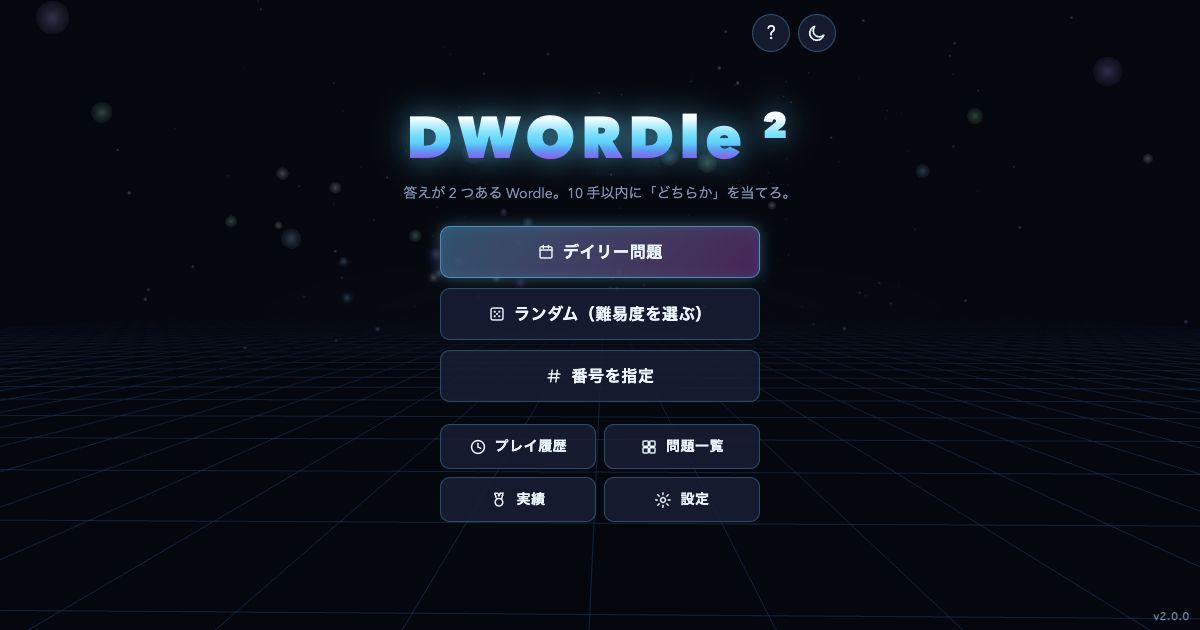
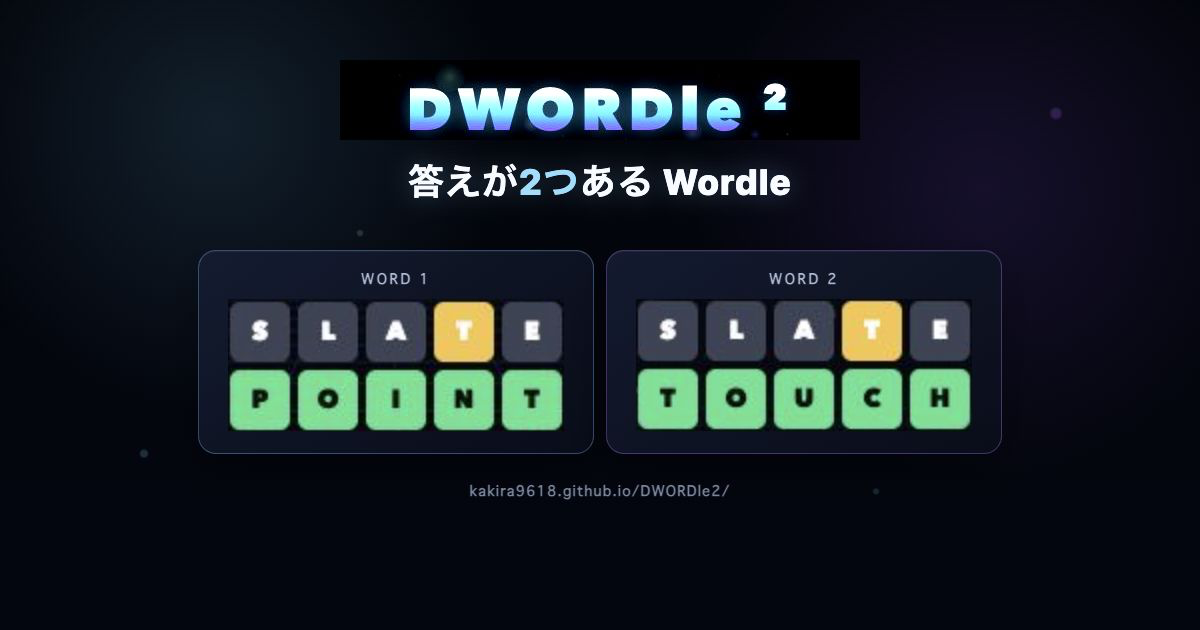
Refine DWORDle2 preview and mobile layout

diff --git a/DWORDle2/css/style.css b/DWORDle2/css/style.css
@@ -239,6 +239,34 @@ body.theme-cyber .btn:hover {
   text-align: center;
   overflow-y: auto;
 }
+/* 画面の低い端末では中央揃えの上側がスクロール範囲外へはみ出すため、
+   タイトルを上から配置して全メニューへ到達できるようにする。 */
+@media (max-height: 700px) {
+  #screen-title {
+    justify-content: flex-start;
+    gap: 10px;
+    padding: 64px 24px 24px;
+  }
+  #screen-title .logo {
+    font-size: clamp(38px, 10vw, 50px);
+  }
+  #screen-title .tagline {
+    margin-bottom: 6px;
+  }
+  #screen-title .title-menu {
+    gap: 8px;
+  }
+  #screen-title .title-menu .btn {
+    padding-block: 11px;
+  }
+  #screen-title .title-nav {
+    gap: 6px;
+    margin-top: 4px;
+  }
+  #screen-title .title-nav .btn {
+    padding-block: 9px;
+  }
+}
 .logo {
   font-size: clamp(40px, 11vw, 58px);
   font-weight: 900;

diff --git a/DWORDle2/js/ui/help.js b/DWORDle2/js/ui/help.js
@@ -470,31 +470,24 @@ export function showFirstTutorial(mode) {
     );
 
   showModal({
-    title: currentLanguage() === "en" ? "Two quick rules" : "最初に 2 つの大事なルール",
+    title: currentLanguage() === "en" ? "Basic Rules" : "基本ルール",
     body: [
-      el(
-        "p",
-        { class: "tutorial-intro" },
-        currentLanguage() === "en"
-          ? "DWORDle looks familiar, but these two differences change how you solve it."
-          : "Wordle と似ていますが、次の 2 点が推理の鍵です。"
-      ),
       el(
         "ol",
         { class: "tutorial-points" },
         point(
           "1",
-          currentLanguage() === "en" ? "Feedback can cross both words" : "判定は 2 つの答えをまたぐ",
+          currentLanguage() === "en" ? "Feedback checks both words" : "判定は 2 つの答えを参照",
           currentLanguage() === "en"
-            ? "Each green or yellow tile may refer to Word 1 or Word 2."
-            : "緑・黄は、Word 1 / Word 2 のどちらかについての情報です。"
+            ? "Green and yellow may refer to Word 1 or 2."
+            : "緑・黄は、Word 1 / 2 のどちらかの情報です。"
         ),
         point(
           "2",
-          currentLanguage() === "en" ? "All green may not be solved" : "全部緑でも未正解の場合がある",
+          currentLanguage() === "en" ? "All green may be unsolved" : "全部緑でも未正解",
           currentLanguage() === "en"
-            ? "You win only when your whole Guess is exactly one of the two answers."
-            : "入力した単語全体が、2 つの答えのどちらかと一致すればクリアです。"
+            ? "Match Word 1 or 2 exactly to win."
+            : "入力全体が Word 1 / 2 と一致すればクリアです。"
         )
       ),
       mode === "uso"
@@ -502,8 +495,8 @@ export function showFirstTutorial(mode) {
             "p",
             { class: "tutorial-intro", style: { color: "#ff7a9a" } },
             currentLanguage() === "en"
-              ? "In DWORDlie, every displayed feedback color is a lie."
-              : "DWORDlieでは、表示される判定色がすべて嘘になります。"
+              ? "In DWORDlie, every color lies."
+              : "DWORDlieは、判定色がすべて嘘です。"
           )
         : null,
     ],